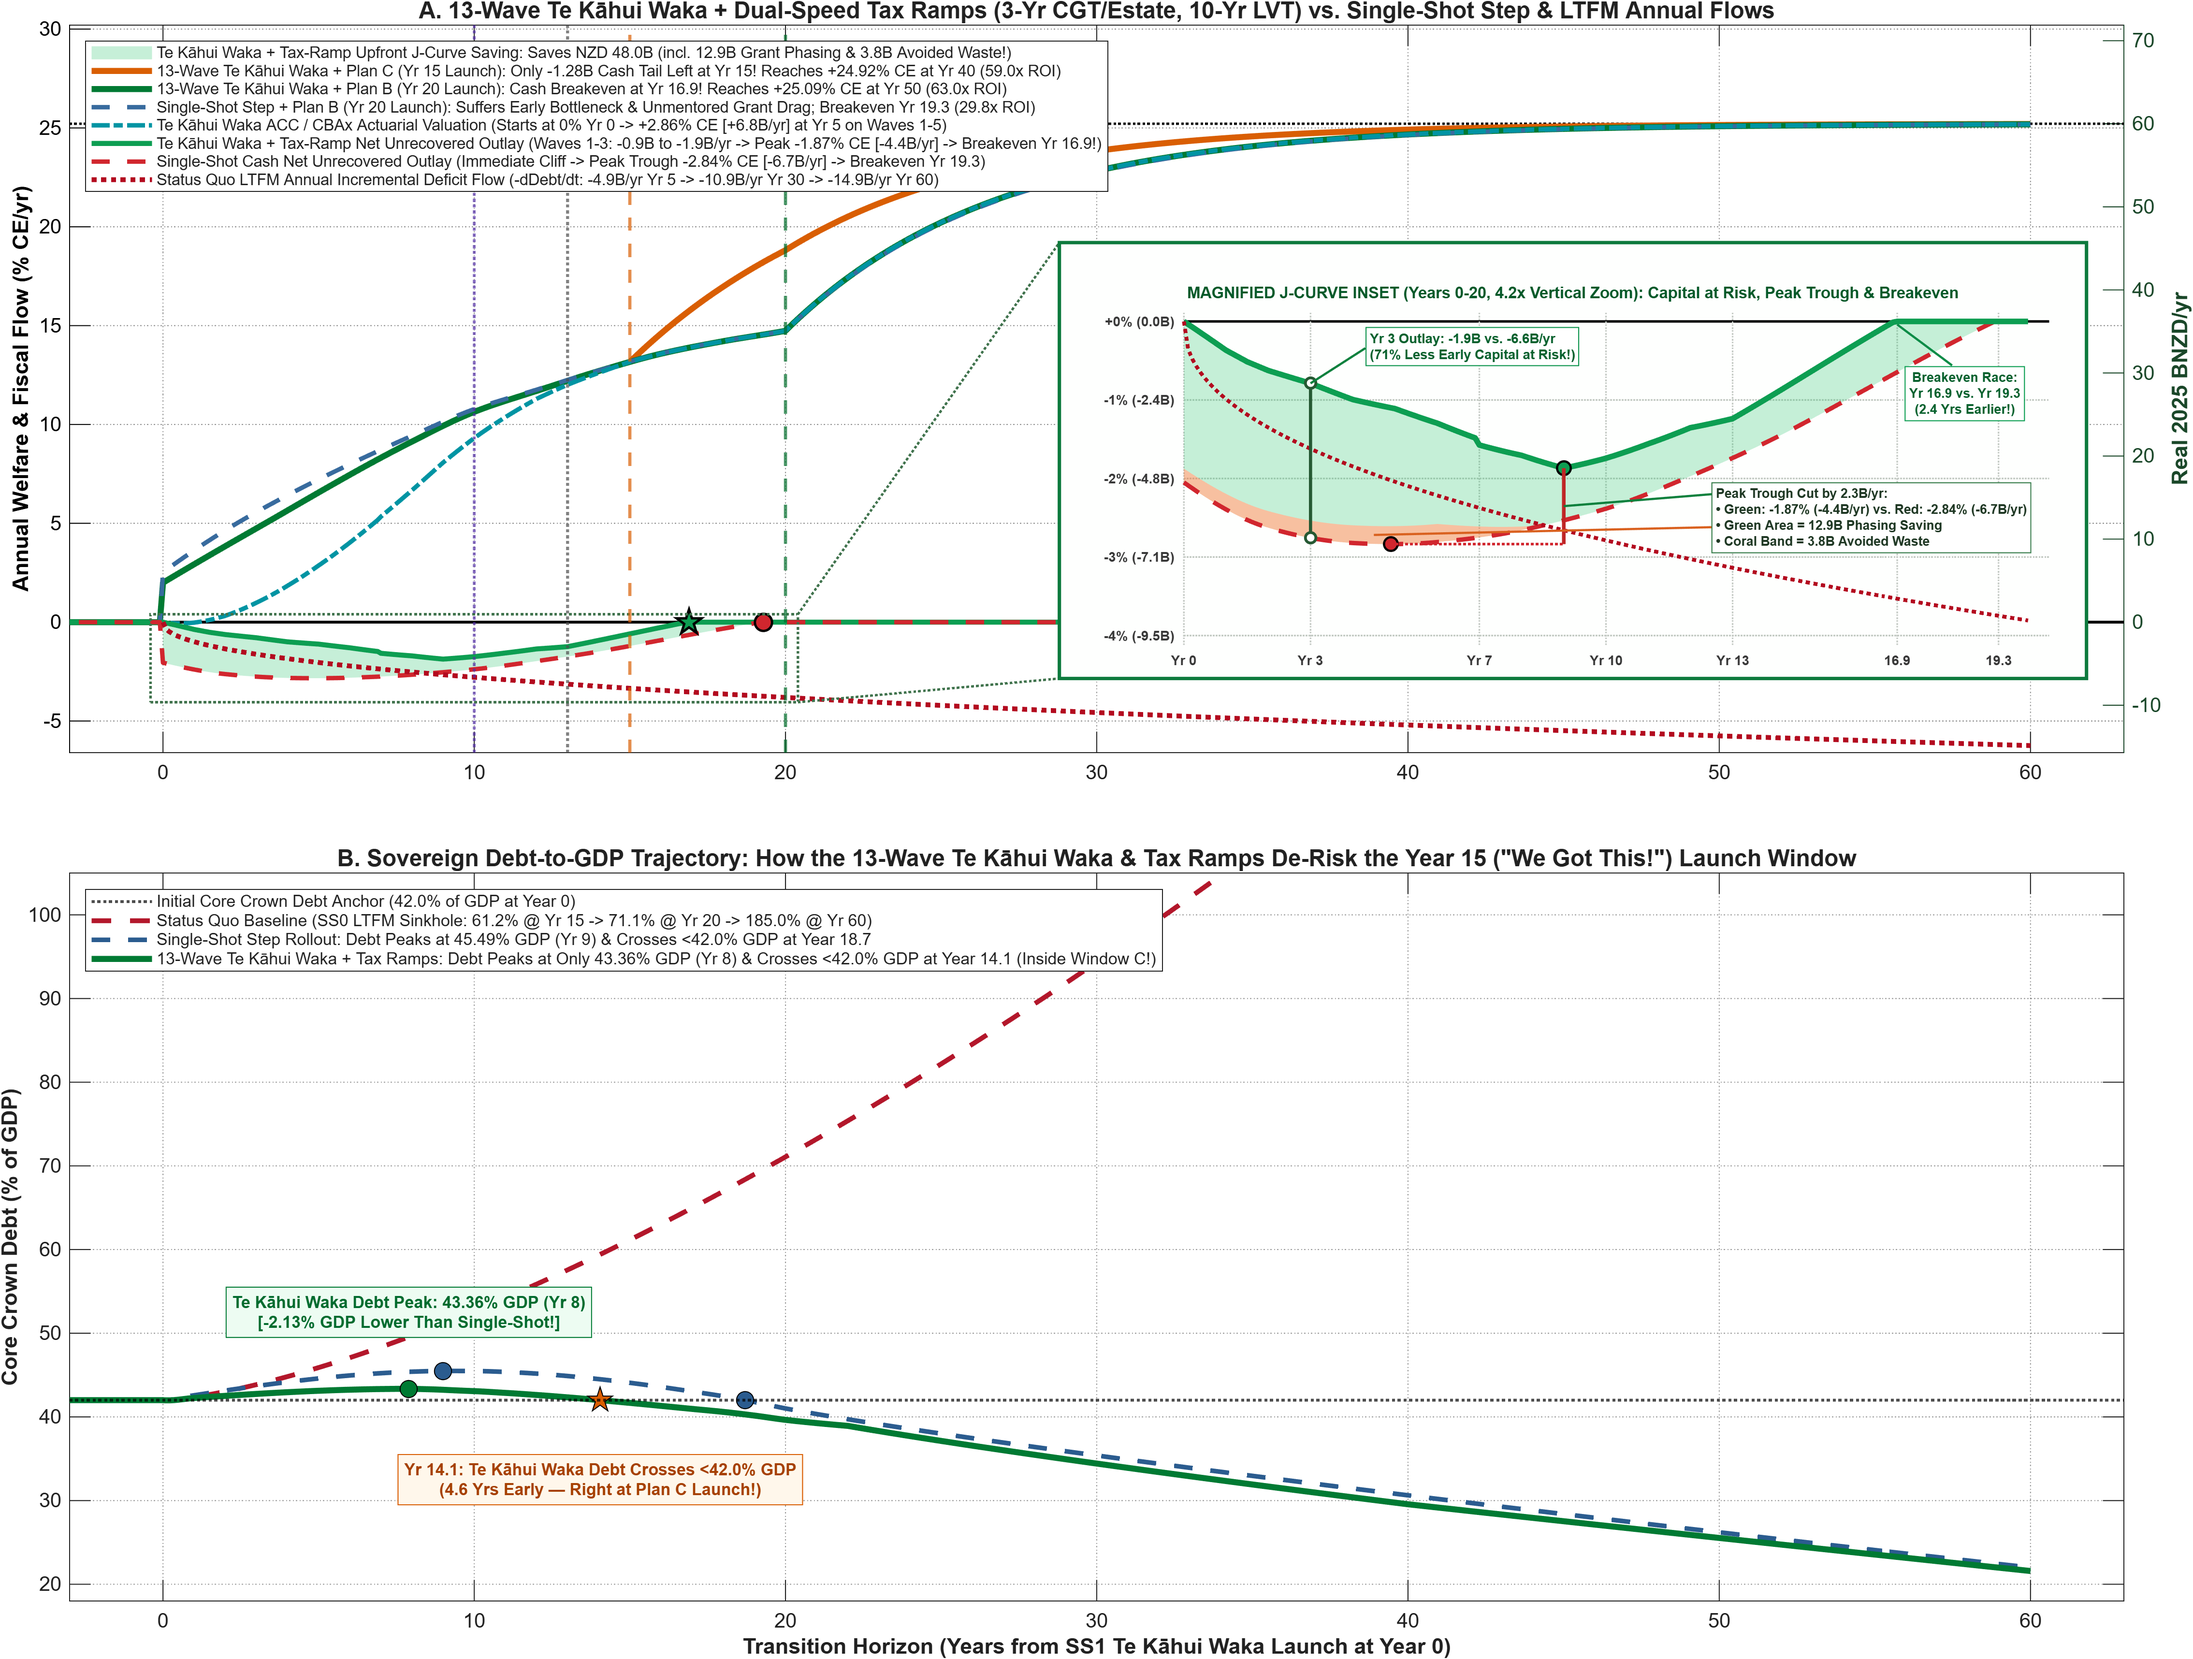
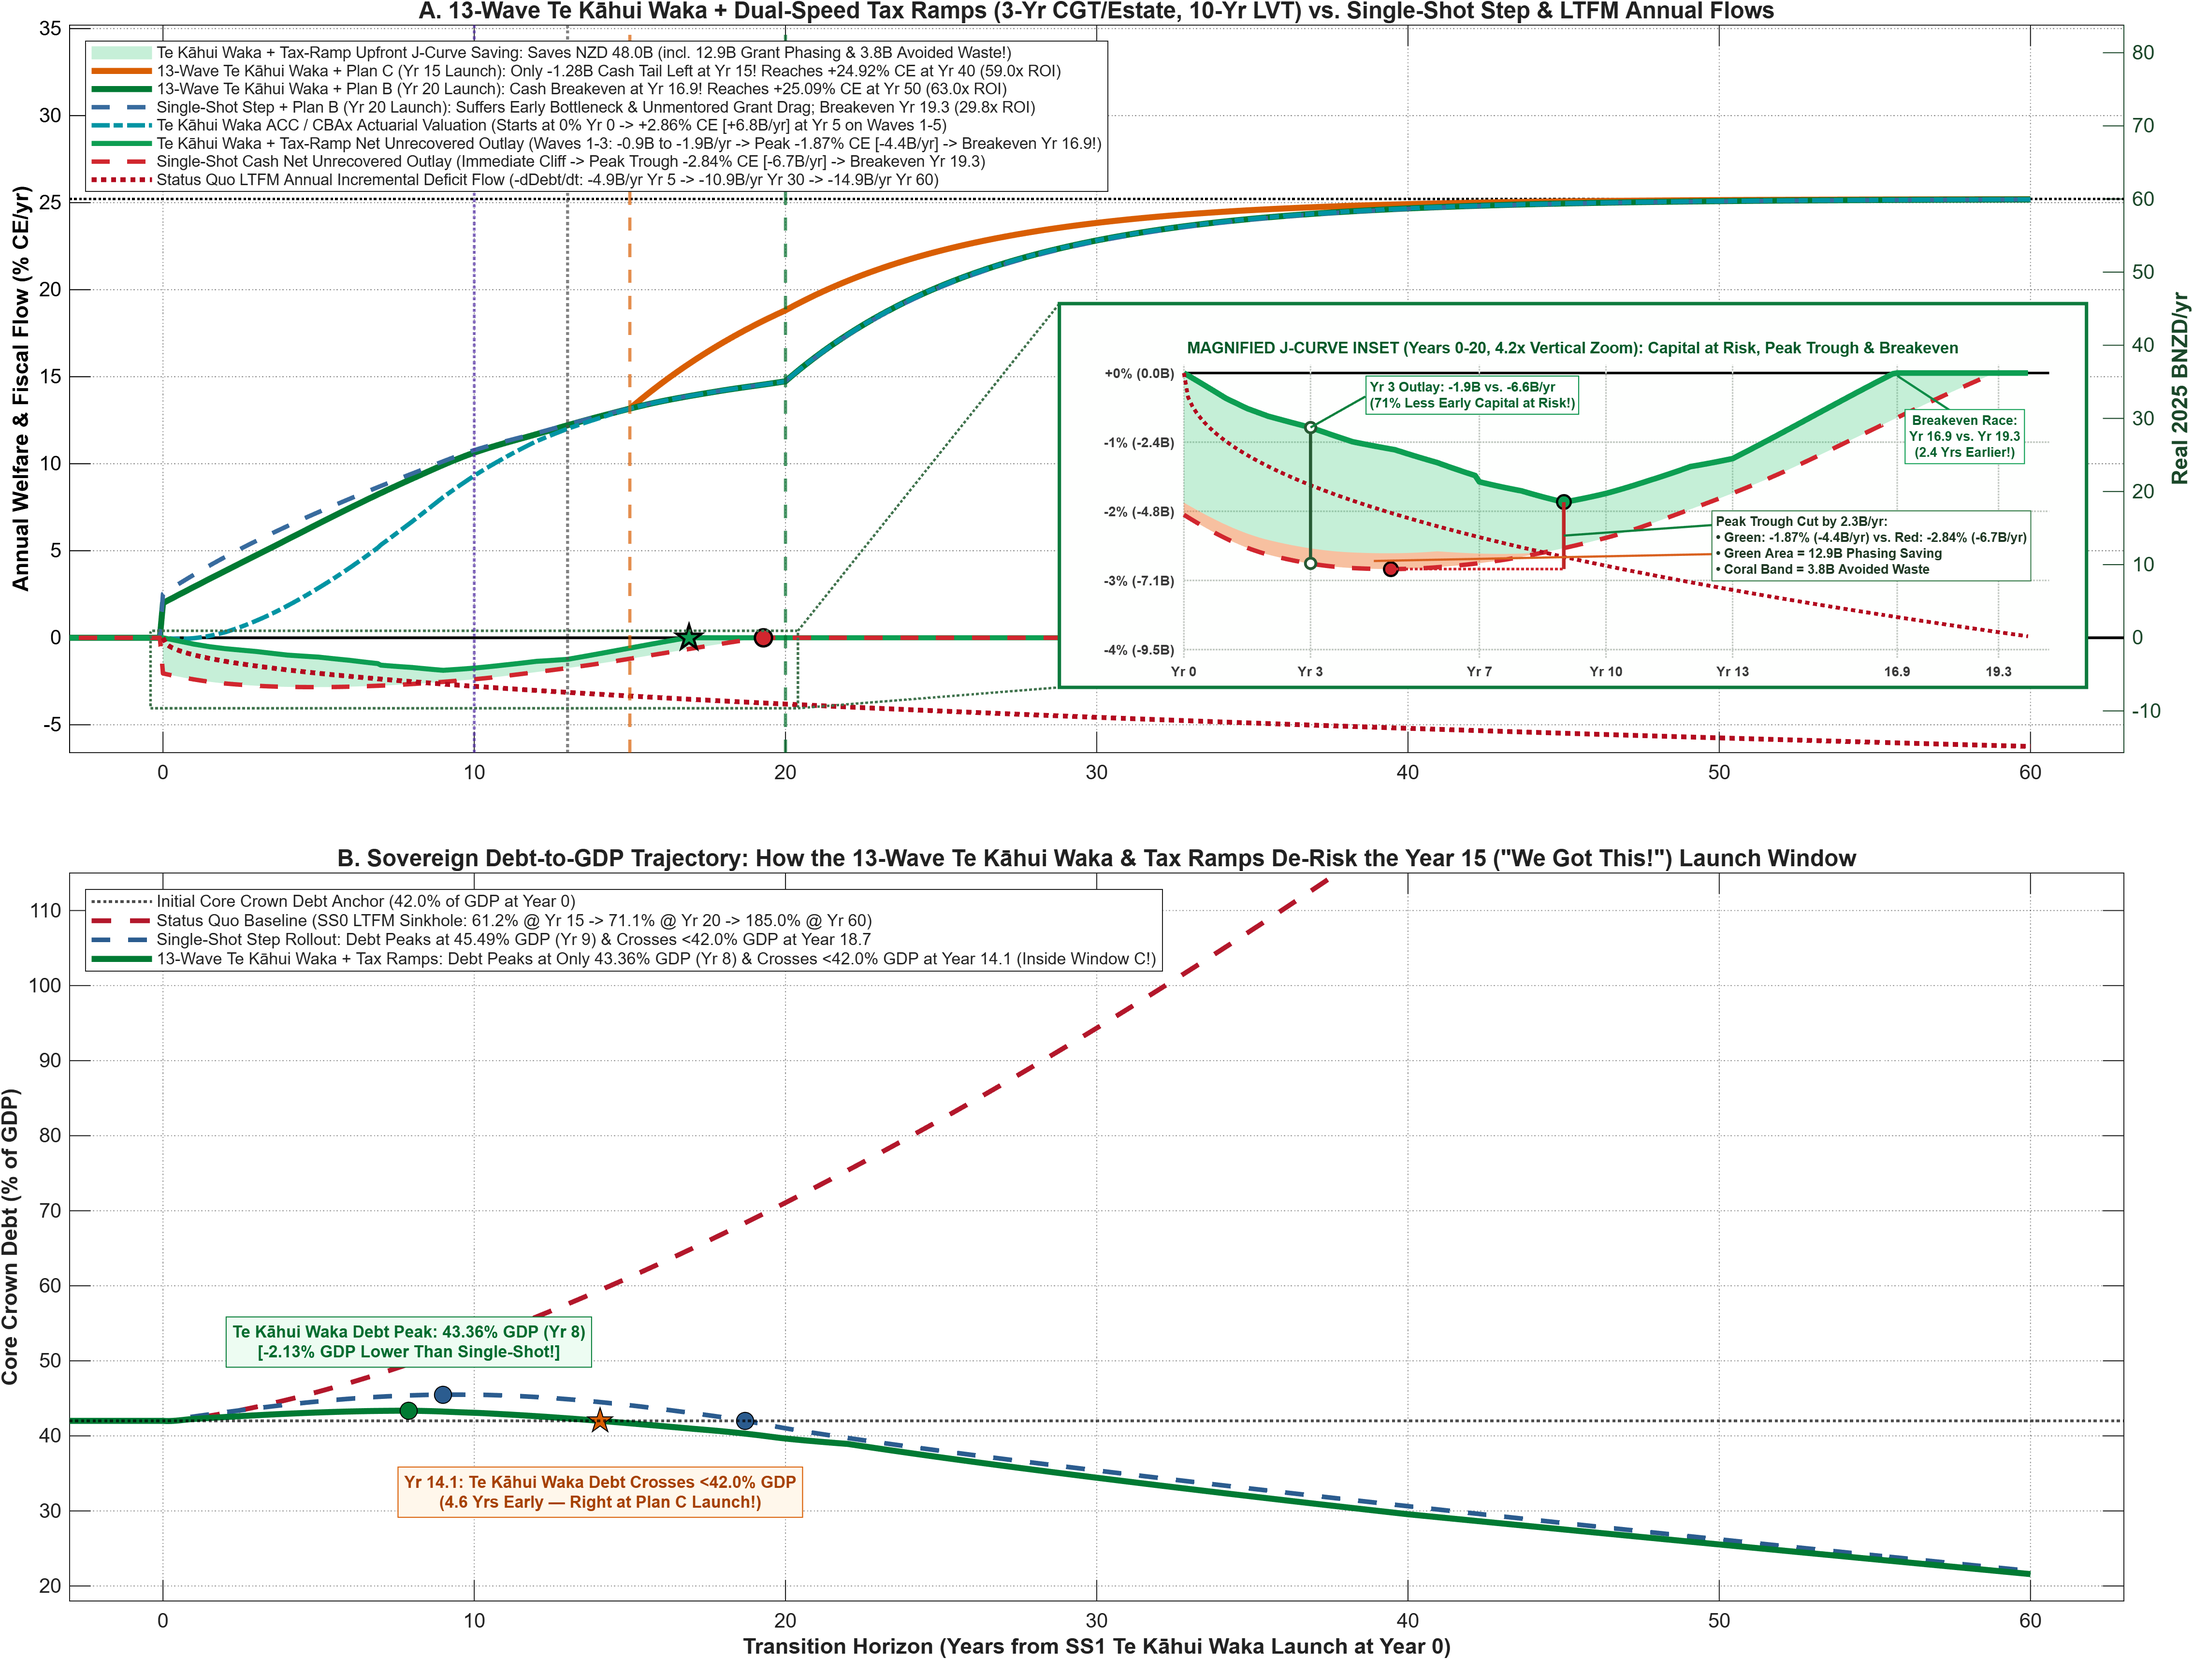
Update Waka Sequencing figure

diff --git a/Plot_Doc1D_TeKahuiWakaSequencing.m b/Plot_Doc1D_TeKahuiWakaSequencing.m
@@ -242,7 +242,7 @@ fprintf('  -> Exported Table 24 (Te Kāhui Waka vs Single-Shot Trajectories) to:
 %% =========================================================================
 %  3. FIGURE 1: THE 13-WAVE ARMADA SCHEDULE & TAX RAMP MATRIX (YEARS 1-13)
 %% =========================================================================
-fig1 = figure('Color', 'w', 'Position', [50, 40, 1540, 1140], 'Visible', 'off');
+fig1 = figure('Color', 'w', 'Position', [50, 40, 1540, 1280], 'Visible', 'off');
 tl1  = tiledlayout(fig1, 2, 1, 'TileSpacing', 'compact', 'Padding', 'compact');
 
 % --- PANEL A: 11-TRACK REGIONAL & TAX-RAMP MATRIX ACROSS WAVES 1..13 ---
@@ -585,11 +585,11 @@ text(ax1, 0.5*(x_box_L + x_box_R), y_z_map(0.36), 'MAGNIFIED J-CURVE INSET (Year
     'HorizontalAlignment', 'center', 'FontSize', 7.8, 'FontWeight', 'bold', 'Color', [0.02 0.35 0.16]);
 
 xlim(ax1, [-3, 63]); xticks(ax1, 0:10:60);
-ylim(ax1, [-6.6, 30.2]);
+ylim(ax1, [-6.6, 35.2]);
 ylabel(ax1, 'Annual Welfare & Fiscal Flow (% CE/yr)', 'FontSize', 10.8, 'FontWeight', 'bold');
 
 yyaxis(ax1, 'right');
-ylim(ax1, [-6.6 * NZD_Per_CE, 30.2 * NZD_Per_CE]);
+ylim(ax1, [-6.6 * NZD_Per_CE, 35.2 * NZD_Per_CE]);
 ax1.YColor = [0.10 0.28 0.16];
 ylabel(ax1, 'Real 2025 BNZD/yr', 'FontSize', 10.8, 'FontWeight', 'bold', 'Color', [0.10 0.28 0.16]);
 yyaxis(ax1, 'left'); ax1.YColor = 'k';
@@ -624,7 +624,7 @@ text(ax2, yr_d42_kh, 32.5, sprintf('Yr %.1f: Te Kāhui Waka Debt Crosses <%.1f%%
     'Color', [0.65 0.25 0.00], 'BackgroundColor', [1.0 0.97 0.92], 'EdgeColor', [0.85 0.37 0.01], 'Margin', 3);
 
 xlim(ax2, [-3, 63]); xticks(ax2, 0:10:60);
-ylim(ax2, [18, 105]);
+ylim(ax2, [18, 115]);
 xlabel(ax2, 'Transition Horizon (Years from SS1 Te Kāhui Waka Launch at Year 0)', 'FontSize', 10.8, 'FontWeight', 'bold');
 ylabel(ax2, 'Core Crown Debt (% of GDP)', 'FontSize', 10.8, 'FontWeight', 'bold');
 title(ax2, 'B. Sovereign Debt-to-GDP Trajectory: How the 13-Wave Te Kāhui Waka & Tax Ramps De-Risk the Year 15 ("We Got This!") Launch Window', ...
